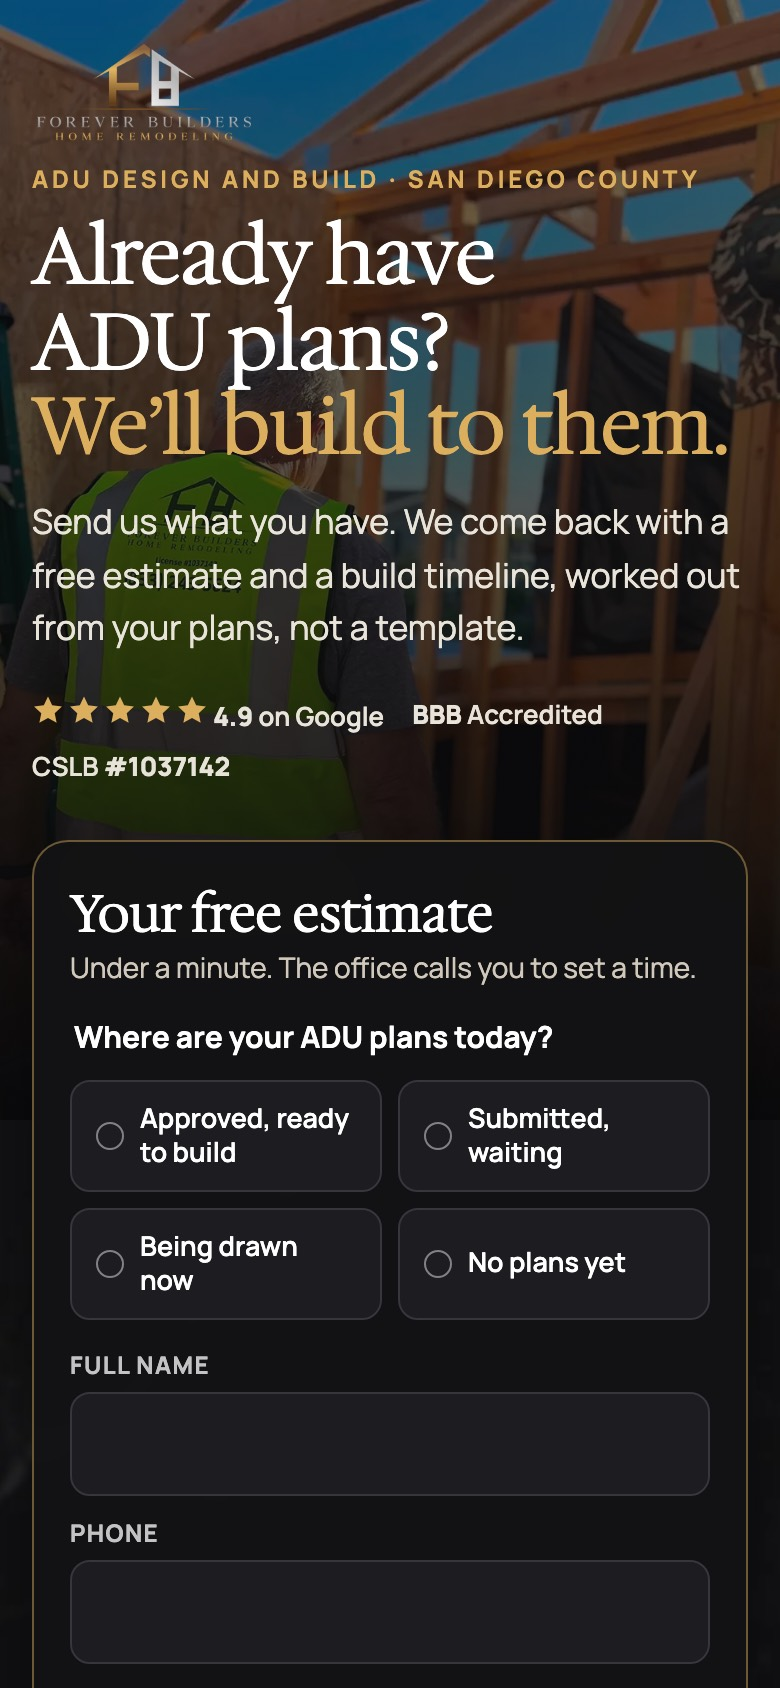
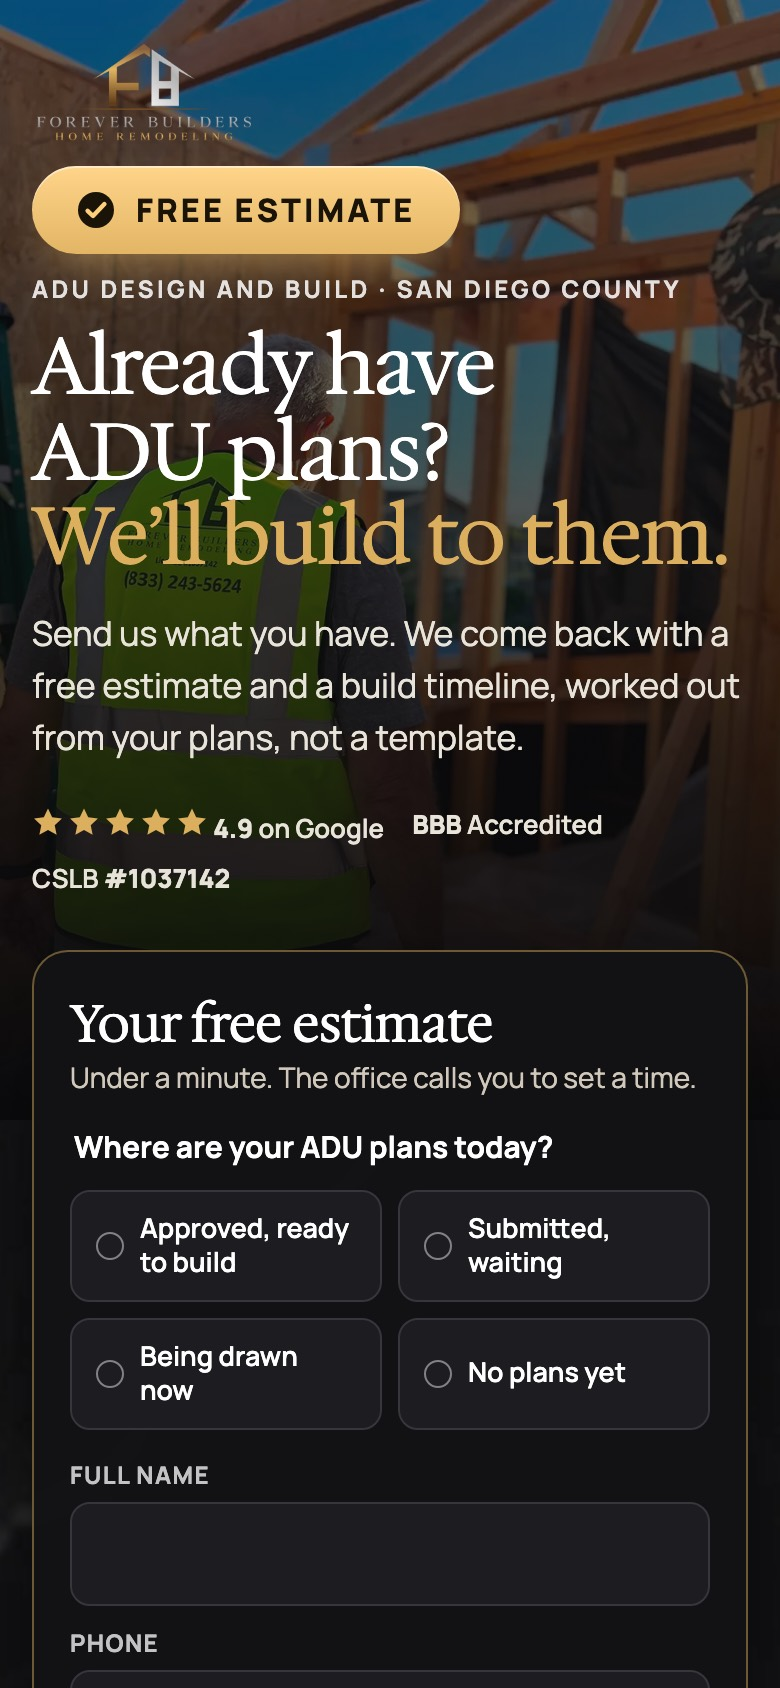
Free Estimate badge leads the hero on all three versions

diff --git a/1-adu/c/index.html b/1-adu/c/index.html
@@ -40,6 +40,7 @@ body{background:var(--ink);color:#fff}
 .quiz .fb-step[hidden]{display:none}
 .quiz .back{background:none;border:0;color:#a9a296;font:700 14px var(--sans);padding:12px 0 0;cursor:pointer}
 .quiz .fb-fine{color:#a9a296}
+.quiz-title{font:400 26px/1.1 var(--serif);color:var(--gold-hi);margin:0 0 14px}
 .dots{display:flex;gap:6px;margin-bottom:16px}
 .dots i{flex:1;height:4px;border-radius:2px;background:#333}
 .quiz[data-at="0"] .dots i:nth-child(-n+1),.quiz[data-at="1"] .dots i:nth-child(-n+2),.quiz[data-at="2"] .dots i:nth-child(-n+3),.quiz[data-at="3"] .dots i{background:var(--gold)}
@@ -112,8 +113,8 @@ body{background:var(--ink);color:#fff}
   </div>
   <div class="main">
     <div>
-      <div class="eyebrow" data-k="eyebrow">ADU design and build · San Diego County</div>
-      <h1 data-k="h1" style="margin-top:14px">Already have ADU&nbsp;plans?<span class="pk">We’ll build to them.</span></h1>
+      <div class="offer-tag"><span class="ot-main"><svg viewBox="0 0 20 20" aria-hidden="true"><circle cx="10" cy="10" r="9" fill="#1a1408"/><path d="M5.8 10.4l2.7 2.6 5.7-6" fill="none" stroke="#FFD07B" stroke-width="2.2" stroke-linecap="round" stroke-linejoin="round"/></svg>Free estimate</span><span class="ot-sub" data-k="eyebrow">ADU design and build · San Diego County</span></div>
+      <h1 data-k="h1" style="margin-top:18px">Already have ADU&nbsp;plans?<span class="pk">We’ll build to them.</span></h1>
       <p class="sub" data-k="sub">Send us what you have. We come back with a free estimate and a build timeline, worked out from your plans, not a template.</p>
       <div class="house" aria-hidden="true">
         <svg viewBox="0 0 100 86"><path class="p0" d="M10 80H90"/><path class="p1" d="M22 80V44M78 80V44"/><path class="p2 rf" d="M6 48L50 12L94 48"/><path class="p3" d="M42 80V60H58V80"/></svg>
@@ -121,9 +122,10 @@ body{background:var(--ink);color:#fff}
       </div>
     </div>
     <form class="quiz" id="adu-quiz" data-fbform data-wizard novalidate>
+      <div class="quiz-title">Your free estimate</div>
       <div class="dots"><i></i><i></i><i></i><i></i></div>
       <div class="fb-step" role="group" data-step="plans">
-        <div class="qhead"><span>Free estimate</span><span>1 / 4</span></div>
+        <div class="qhead"><span>Question</span><span>1 / 4</span></div>
         <h2 class="fb-q">Where are your ADU plans today?</h2>
         <div class="opts">
           <button class="opt" data-opt="approved">Approved, ready to build</button>
@@ -133,7 +135,7 @@ body{background:var(--ink);color:#fff}
         </div>
       </div>
       <div class="fb-step" role="group" data-step="type">
-        <div class="qhead"><span>Free estimate</span><span>2 / 4</span></div>
+        <div class="qhead"><span>Question</span><span>2 / 4</span></div>
         <h2 class="fb-q">What would you build?</h2>
         <div class="opts">
           <button class="opt" data-opt="detached">Detached ADU</button>
@@ -145,7 +147,7 @@ body{background:var(--ink);color:#fff}
         <button type="button" class="back" data-back>← Back</button>
       </div>
       <div class="fb-step" role="group" data-step="timing">
-        <div class="qhead"><span>Free estimate</span><span>3 / 4</span></div>
+        <div class="qhead"><span>Question</span><span>3 / 4</span></div>
         <h2 class="fb-q">When would you like to start?</h2>
         <div class="opts">
           <button class="opt" data-opt="0-3">In the next 3 months</button>

diff --git a/1-adu/b/index.html b/1-adu/b/index.html
@@ -19,7 +19,7 @@ body{background:var(--paper)}
 /* hero: editorial, light */
 .hero{padding:28px 0 72px}
 .hero .g{display:grid;grid-template-columns:1.1fr .9fr;gap:56px;align-items:center}
-.hero h1{font-size:clamp(44px,5.4vw,80px);margin:16px 0 22px}
+.hero h1{font-size:clamp(44px,5.4vw,80px);margin:22px 0 22px}
 .hero h1 .pk{font-family:var(--didot);font-style:italic}
 .hero .sub{font-size:19px;color:#3b3731;max-width:30em}
 .hero .acts{display:flex;flex-wrap:wrap;gap:16px 24px;align-items:center;margin-top:30px}
@@ -154,7 +154,7 @@ body{background:var(--paper)}
 <header class="hero">
   <div class="wrap g">
     <div>
-      <div class="eyebrow" style="color:var(--gold-lo)" data-k="eyebrow">ADU design and build · San Diego County</div>
+      <div class="offer-tag"><span class="ot-main"><svg viewBox="0 0 20 20" aria-hidden="true"><circle cx="10" cy="10" r="9" fill="#1a1408"/><path d="M5.8 10.4l2.7 2.6 5.7-6" fill="none" stroke="#FFD07B" stroke-width="2.2" stroke-linecap="round" stroke-linejoin="round"/></svg>Free estimate</span><span class="ot-sub" style="color:var(--gold-lo)" data-k="eyebrow">ADU design and build · San Diego County</span></div>
       <h1 data-k="h1">Already have ADU&nbsp;plans?<span class="pk">We’ll build to them.</span></h1>
       <p class="sub" data-k="sub">Send us what you have. We come back with a free estimate and a build timeline, worked out from your plans, not a template.</p>
       <div class="acts"><a class="btn" href="#estimate" data-goto="#estimate" data-from="hero"><span data-k="cta">Get my free estimate</span> <span class="arr">→</span></a><small>4 quick questions · no obligation</small></div>

diff --git a/1-adu/a/index.html b/1-adu/a/index.html
@@ -15,7 +15,7 @@ body{background:var(--ink);color:#fff}
 .top{position:relative;z-index:3;padding:18px var(--gut) 8px}
 .top img{width:132px}
 .hero-grid{position:relative;z-index:2;display:grid;grid-template-columns:1fr 1fr;gap:56px;align-items:center;padding-bottom:56px}
-.hero h1{font-size:clamp(40px,4.1vw,60px);margin:16px 0 20px}
+.hero h1{font-size:clamp(40px,4.1vw,60px);margin:22px 0 20px}
 .hero .sub{font-size:19px;max-width:30em;color:#e9e4da}
 .hero .proofrow{margin-top:34px;color:#e9e4da}
 .photo{position:relative;border-radius:18px;overflow:hidden;height:320px;box-shadow:0 40px 80px -30px #000}
@@ -138,7 +138,7 @@ body{background:var(--ink);color:#fff}
   <div class="wrap top"><img src="../../_assets/logo.png" alt="Forever Builders Home Remodeling"></div>
   <div class="wrap hero-grid">
     <div class="left">
-      <div class="eyebrow" data-k="eyebrow">ADU design and build · San Diego County</div>
+      <div class="offer-tag"><span class="ot-main"><svg viewBox="0 0 20 20" aria-hidden="true"><circle cx="10" cy="10" r="9" fill="#1a1408"/><path d="M5.8 10.4l2.7 2.6 5.7-6" fill="none" stroke="#FFD07B" stroke-width="2.2" stroke-linecap="round" stroke-linejoin="round"/></svg>Free estimate</span><span class="ot-sub" data-k="eyebrow">ADU design and build · San Diego County</span></div>
       <h1 data-k="h1">Already have ADU&nbsp;plans?<span class="pk">We’ll build to them.</span></h1>
       <p class="sub" data-k="sub">Send us what you have. We come back with a free estimate and a build timeline, worked out from your plans, not a template.</p>
       <div class="proofrow">

diff --git a/_shared/fb.css b/_shared/fb.css
@@ -51,6 +51,14 @@ a{color:inherit}
 .row2{display:grid;grid-template-columns:1fr 1fr;gap:0 12px}
 @media (max-width:420px){.row2{grid-template-columns:1fr}}
 
+
+/* the offer, same badge on every version: FREE ESTIMATE leads the hero */
+.offer-tag{display:flex;flex-wrap:wrap;align-items:center;gap:10px 16px}
+.ot-main{display:inline-flex;align-items:center;gap:10px;padding:12px 22px;border-radius:999px;background:var(--gold-grad);color:#1a1408;
+  font:800 clamp(16px,1.6vw,20px)/1 var(--sans);letter-spacing:.1em;text-transform:uppercase;box-shadow:0 10px 26px -10px rgba(227,181,101,.75),inset 0 1px 0 rgba(255,255,255,.5)}
+.ot-main svg{width:20px;height:20px;flex:none}
+.ot-sub{font:700 12px/1.3 var(--sans);letter-spacing:.14em;text-transform:uppercase;opacity:.85}
+
 /* proof marks */
 .stars{display:inline-flex;gap:2px;color:var(--gold)}
 .stars svg{width:16px;height:16px}
